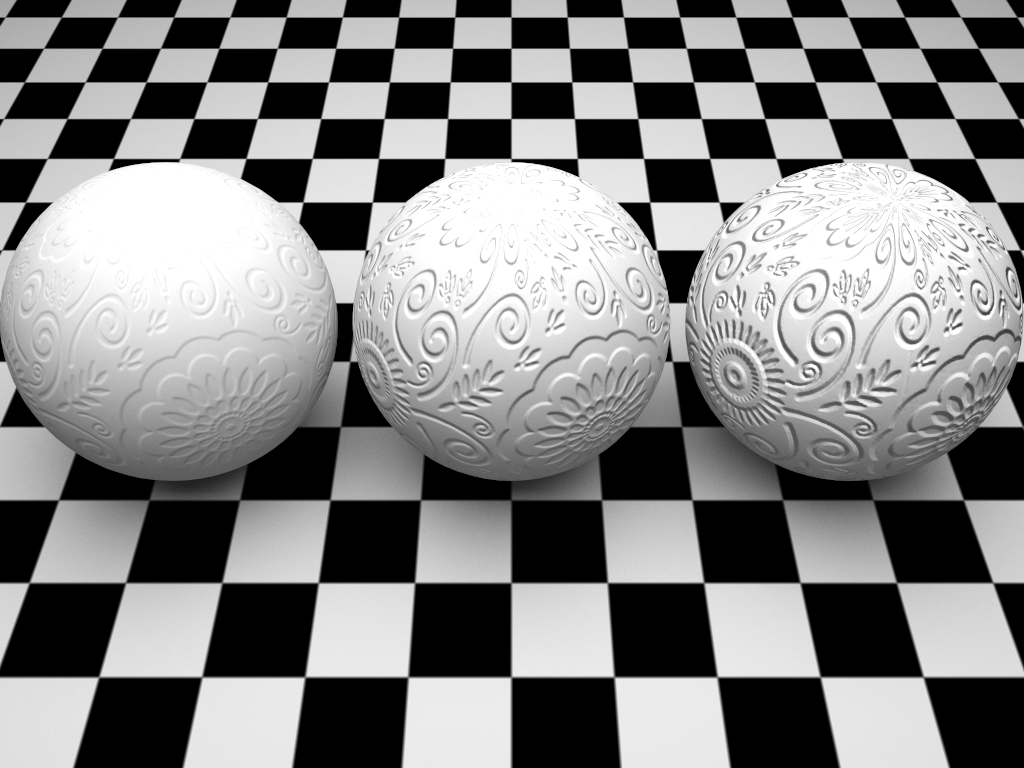
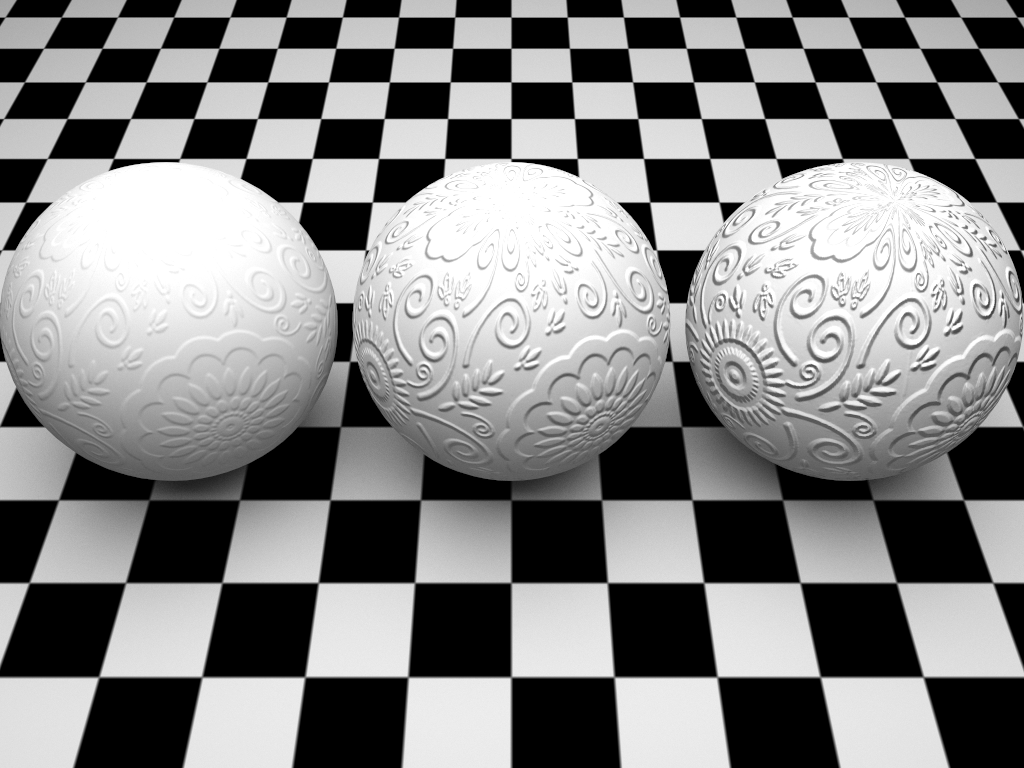
bump fix

Changed region(s): [[0.0, 0.2188, 1.0, 0.625], [0.4375, 0.2188, 0.4688, 0.25]]

diff --git a/main/main.cpp b/main/main.cpp
@@ -106,16 +106,11 @@ int main(int argc, const char** argv)
     //test1003_get_light_by_name_and_edit();
     //test1004_get_camera_by_name_and_edit();
 
-    //test1005_transform_all_instances();
-    //test1006_transform_all_instances_origin();
-    //test1007_merge_library();
-    //test1008_merge_one_texture();
-    //test1009_merge_one_material();
-    //test1010_merge_one_mesh();
-    //test1011_merge_scene();
-    //test1012_merge_one_light();
-    //test1013_commit_without_render();
-    //std::cout << test1014_print_matlib_map() << std::endl;
+    std::cout << MTL_TESTS::test_126_bump_amount() << std::endl;
+    std::cout << MTL_TESTS::test_127_normal_map_height() << std::endl;
+    std::cout << MTL_TESTS::test_128_bump_radius() << std::endl;
+    std::cout << MTL_TESTS::test_130_bump_invert_normalY() << std::endl;
+    std::cout << MTL_TESTS::test_139_glass_and_bump() << std::endl;
 
     //std::cout << test1015_merge_scene_with_remaps() << std::endl;
     //std::cout << test1016_merge_scene_remap_override() << std::endl;
@@ -127,7 +122,7 @@ int main(int argc, const char** argv)
     //std::cout << test70_area_lights16() << std::endl;
     //std::cout << test78_material_remap_list1() << std::endl;
     //std::cout << test79_material_remap_list2() << std::endl;
-    test77_save_gbuffer_layers();
+    //test77_save_gbuffer_layers();
 
     //std::cout << test72_load_library_sigle_teapot_with_opacity() << std::endl;
     //GEO_TESTS::test_005_instancing();
